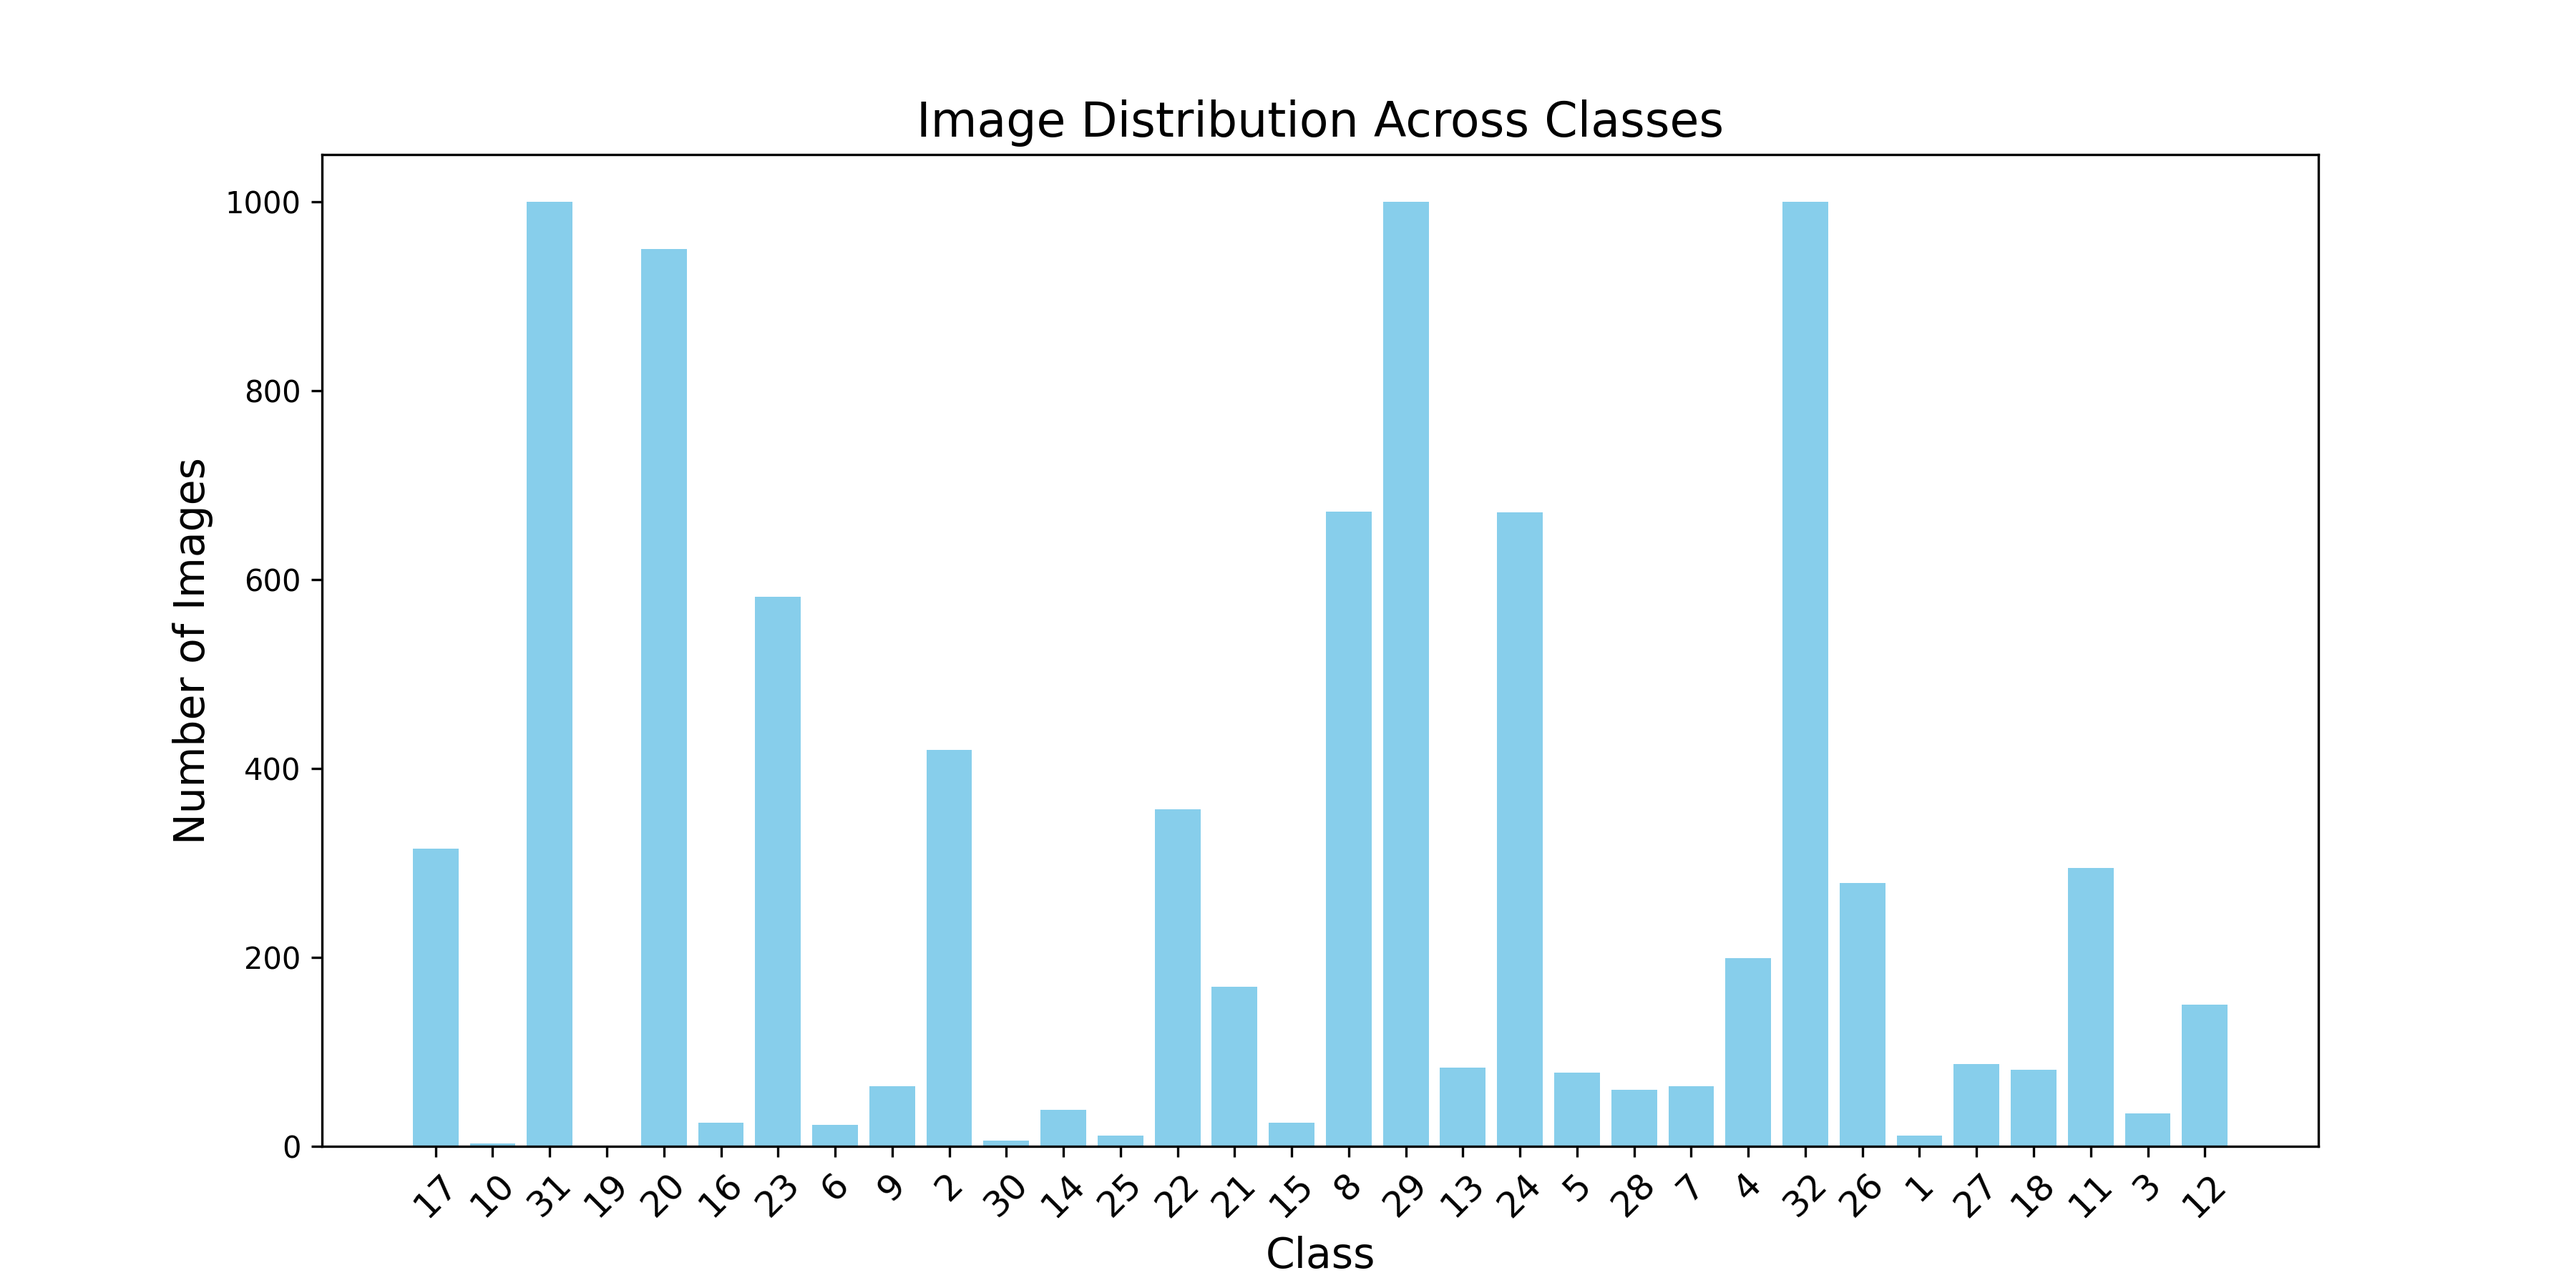
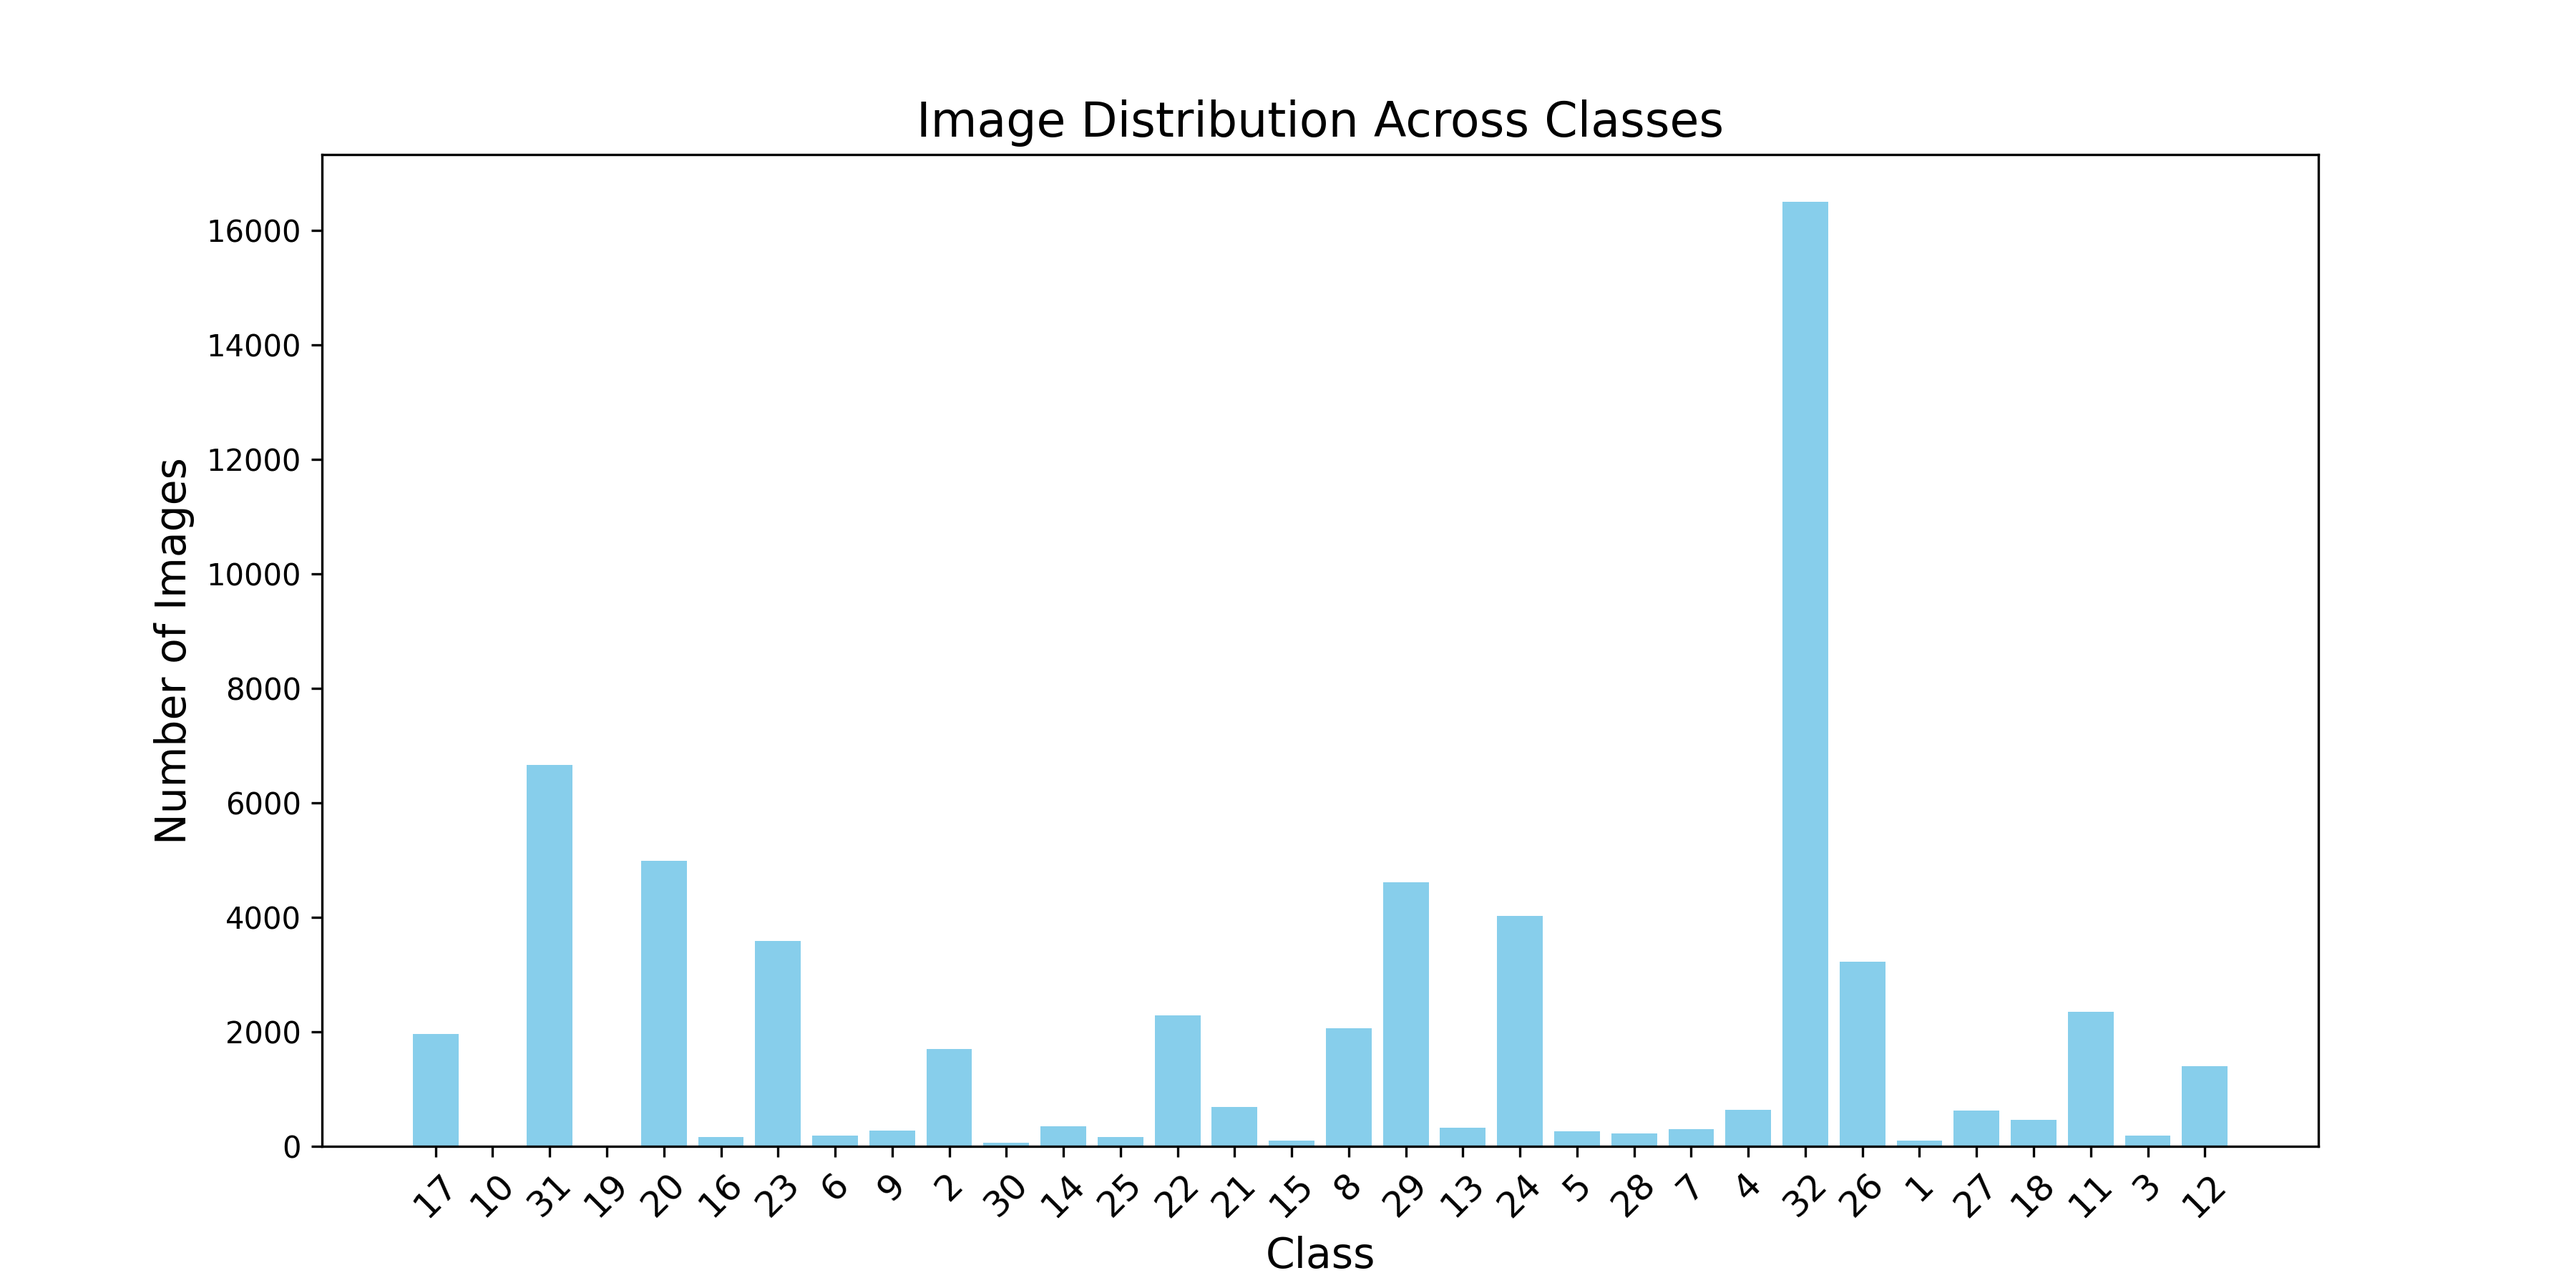
distributions

diff --git a/distributions.py b/distributions.py
@@ -23,5 +23,5 @@ def plot_class_distribution(data_dir):
     plt.close()
 
 # Example usage:
-plot_class_distribution("data_pruned")
+plot_class_distribution("data/training")
 
